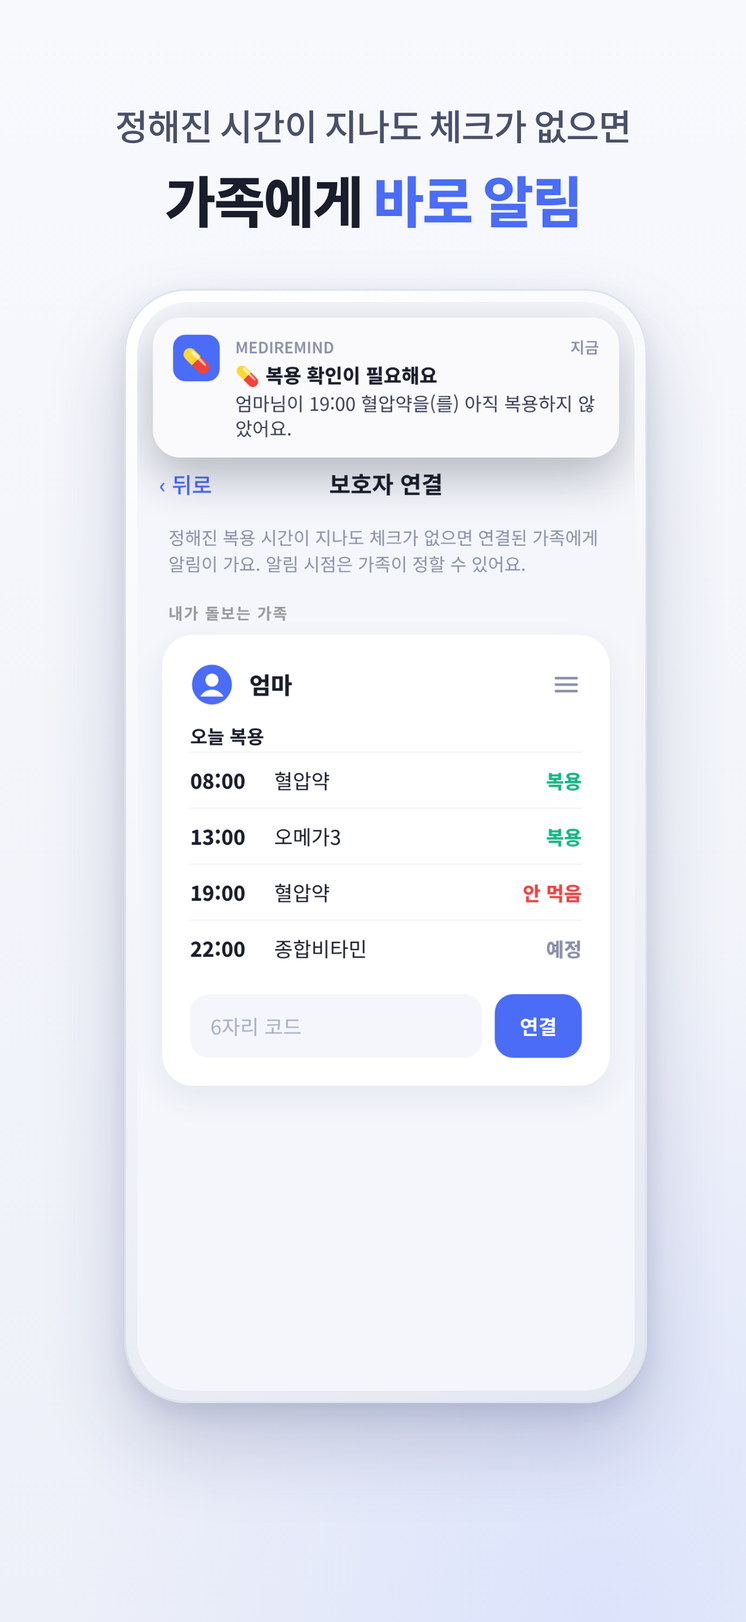
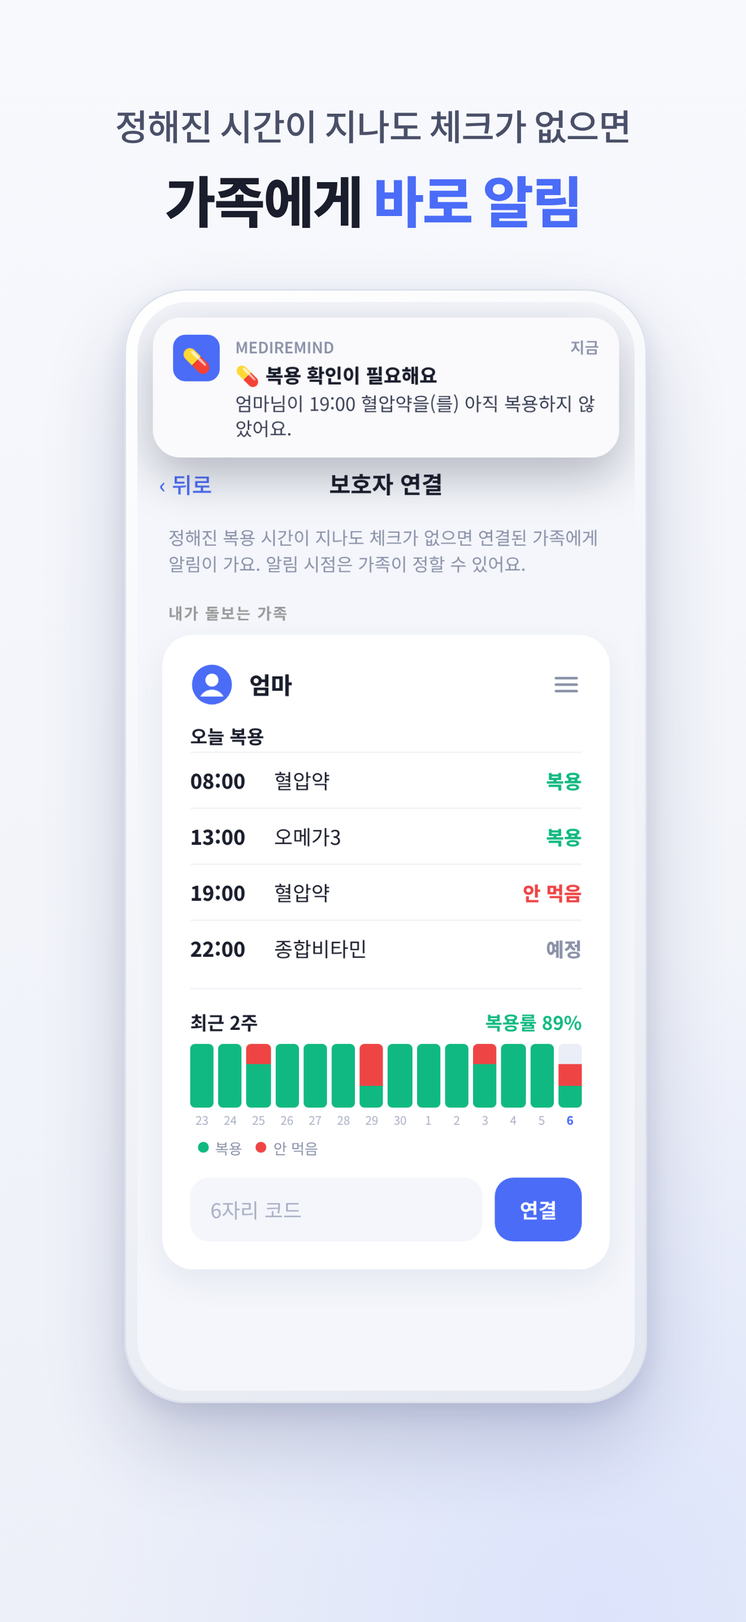
Family alerts: two-week adherence chart on each watched card
Guardians now see the last 14 days (what the server keeps) as one bar per
day, green for taken and red for missed past their chosen delay, with an
overall rate. Tally logic is pure and tested. Mockups, the Korean store
screenshot and strings in all languages updated. Publishes an OTA update.

Claude-Session: https://claude.ai/code/session_01FsfgzBCkXCq3RhxTQFRGQP

Changed region(s): [[0.2485, 0.5896, 0.8076, 0.7137], [0.6523, 0.7137, 0.7765, 0.7758]]

diff --git a/MediRemind/docs/guardian-flow.html b/MediRemind/docs/guardian-flow.html
@@ -294,6 +294,17 @@ h2{color:#fff;text-align:center;font-size:17px;margin:10px 0 18px}
 .swipe-demo{display:flex;gap:8px;margin-top:12px;overflow:hidden} .swipe-demo .row{flex:1;margin:0}
 .swipe-demo .act{width:92px;background:#EF4444;color:#fff;border-radius:12px;display:flex;align-items:center;justify-content:center;font-size:11.5px;font-weight:700;padding:10px 0}
 .gd-swipe{font-size:10px;color:#A9B0C5;text-align:right;margin-top:8px}
+  .hist { margin-top:8px; padding-top:10px; border-top:1px solid #F1F3F8; }
+  .hist-h { display:flex; justify-content:space-between; align-items:baseline; }
+  .hist-h b { font-size:12px; color:#10B981; }
+  .hbars { display:flex; gap:3px; height:54px; align-items:flex-end; margin-top:4px; }
+  .hb { flex:1; height:100%; display:flex; flex-direction:column; align-items:center; }
+  .ht { flex:1; width:100%; display:flex; flex-direction:column; border-radius:3px; overflow:hidden; }
+  .ht i { display:block; width:100%; }
+  .hb span { font-size:7.5px; color:#A9B0C5; margin-top:2px; }
+  .hb span.td { color:#4A6CF7; font-weight:800; }
+  .hleg { display:flex; align-items:center; gap:4px; font-size:9.5px; color:#8A91A8; margin-top:6px; }
+  .hleg i { width:7px; height:7px; border-radius:4px; display:inline-block; margin-left:5px; }
 </style></head><body>
 <h1>보호자 연결 — 등록 과정</h1><div class="sub">부모님 폰에서 코드 만들기 → 가족 폰에서 코드 입력 → 연결 완료</div>
 <div class="flow"><figure class="step"><div class="phone"><div class="screen">
@@ -317,7 +328,7 @@ h2{color:#fff;text-align:center;font-size:17px;margin:10px 0 18px}
 <div class="flow"><figure class="step"><div class="phone"><div class="screen">
 <div class="notch"></div><div class="status"><span>9:41</span><span>📶 🔋</span></div>
 <div class="navbar"><span class="back">‹ 뒤로</span><span class="nt">보호자 연결</span><span></span></div>
-<div class="body"><div class="set-lbl">내가 돌보는 가족</div><div class="card"><div class="gd-person"><svg class="gd-pc " viewBox="0 0 24 24"><circle cx="12" cy="12" r="11"/><circle cx="12" cy="9.5" r="3.6" fill="#fff"/><path d="M5.6 18.6c1.3-2.4 3.7-3.8 6.4-3.8s5.1 1.4 6.4 3.8" fill="#fff"/></svg><div class="gd-name">엄마</div><svg class="gd-menu" viewBox="0 0 24 24"><path d="M4 7h16M4 12h16M4 17h16"/></svg></div><div class="gd-lbl">오늘 복용</div><div class="gd-row"><span class="gd-time">08:00</span><span class="gd-med">혈압약</span><span class="gd-st ok">복용</span></div><div class="gd-row"><span class="gd-time">19:00</span><span class="gd-med">혈압약</span><span class="gd-st miss">안 먹음</span></div></div><div class="card"><div class="gd-person"><svg class="gd-pc dad" viewBox="0 0 24 24"><circle cx="12" cy="12" r="11"/><circle cx="12" cy="9.5" r="3.6" fill="#fff"/><path d="M5.6 18.6c1.3-2.4 3.7-3.8 6.4-3.8s5.1 1.4 6.4 3.8" fill="#fff"/></svg><div class="gd-name">아빠</div><svg class="gd-menu" viewBox="0 0 24 24"><path d="M4 7h16M4 12h16M4 17h16"/></svg></div><div class="gd-lbl">오늘 복용</div><div class="gd-row"><span class="gd-time">09:00</span><span class="gd-med">당뇨약</span><span class="gd-st ok">복용</span></div><div class="gd-row"><span class="gd-time">21:00</span><span class="gd-med">당뇨약</span><span class="gd-st next">예정</span></div></div></div>
+<div class="body"><div class="set-lbl">내가 돌보는 가족</div><div class="card"><div class="gd-person"><svg class="gd-pc " viewBox="0 0 24 24"><circle cx="12" cy="12" r="11"/><circle cx="12" cy="9.5" r="3.6" fill="#fff"/><path d="M5.6 18.6c1.3-2.4 3.7-3.8 6.4-3.8s5.1 1.4 6.4 3.8" fill="#fff"/></svg><div class="gd-name">엄마</div><svg class="gd-menu" viewBox="0 0 24 24"><path d="M4 7h16M4 12h16M4 17h16"/></svg></div><div class="gd-lbl">오늘 복용</div><div class="gd-row"><span class="gd-time">08:00</span><span class="gd-med">혈압약</span><span class="gd-st ok">복용</span></div><div class="gd-row"><span class="gd-time">19:00</span><span class="gd-med">혈압약</span><span class="gd-st miss">안 먹음</span></div><div class="hist"><div class="hist-h"><span class="gd-lbl">최근 2주</span><b>복용률 89%</b></div><div class="hbars"><div class="hb"><div class="ht"><i style="flex:0;background:#EBEEF6"></i><i style="flex:0;background:#EF4444"></i><i style="flex:3;background:#10B981"></i></div><span class="">23</span></div><div class="hb"><div class="ht"><i style="flex:0;background:#EBEEF6"></i><i style="flex:0;background:#EF4444"></i><i style="flex:3;background:#10B981"></i></div><span class="">24</span></div><div class="hb"><div class="ht"><i style="flex:0;background:#EBEEF6"></i><i style="flex:1;background:#EF4444"></i><i style="flex:2;background:#10B981"></i></div><span class="">25</span></div><div class="hb"><div class="ht"><i style="flex:0;background:#EBEEF6"></i><i style="flex:0;background:#EF4444"></i><i style="flex:3;background:#10B981"></i></div><span class="">26</span></div><div class="hb"><div class="ht"><i style="flex:0;background:#EBEEF6"></i><i style="flex:0;background:#EF4444"></i><i style="flex:3;background:#10B981"></i></div><span class="">27</span></div><div class="hb"><div class="ht"><i style="flex:0;background:#EBEEF6"></i><i style="flex:0;background:#EF4444"></i><i style="flex:3;background:#10B981"></i></div><span class="">28</span></div><div class="hb"><div class="ht"><i style="flex:0;background:#EBEEF6"></i><i style="flex:2;background:#EF4444"></i><i style="flex:1;background:#10B981"></i></div><span class="">29</span></div><div class="hb"><div class="ht"><i style="flex:0;background:#EBEEF6"></i><i style="flex:0;background:#EF4444"></i><i style="flex:3;background:#10B981"></i></div><span class="">30</span></div><div class="hb"><div class="ht"><i style="flex:0;background:#EBEEF6"></i><i style="flex:0;background:#EF4444"></i><i style="flex:3;background:#10B981"></i></div><span class="">1</span></div><div class="hb"><div class="ht"><i style="flex:0;background:#EBEEF6"></i><i style="flex:0;background:#EF4444"></i><i style="flex:3;background:#10B981"></i></div><span class="">2</span></div><div class="hb"><div class="ht"><i style="flex:0;background:#EBEEF6"></i><i style="flex:1;background:#EF4444"></i><i style="flex:2;background:#10B981"></i></div><span class="">3</span></div><div class="hb"><div class="ht"><i style="flex:0;background:#EBEEF6"></i><i style="flex:0;background:#EF4444"></i><i style="flex:3;background:#10B981"></i></div><span class="">4</span></div><div class="hb"><div class="ht"><i style="flex:0;background:#EBEEF6"></i><i style="flex:0;background:#EF4444"></i><i style="flex:3;background:#10B981"></i></div><span class="">5</span></div><div class="hb"><div class="ht"><i style="flex:1;background:#EBEEF6"></i><i style="flex:1;background:#EF4444"></i><i style="flex:1;background:#10B981"></i></div><span class="td">6</span></div></div><div class="hleg"><i style="background:#10B981"></i>복용<i style="background:#EF4444"></i>안 먹음</div></div></div><div class="card"><div class="gd-person"><svg class="gd-pc dad" viewBox="0 0 24 24"><circle cx="12" cy="12" r="11"/><circle cx="12" cy="9.5" r="3.6" fill="#fff"/><path d="M5.6 18.6c1.3-2.4 3.7-3.8 6.4-3.8s5.1 1.4 6.4 3.8" fill="#fff"/></svg><div class="gd-name">아빠</div><svg class="gd-menu" viewBox="0 0 24 24"><path d="M4 7h16M4 12h16M4 17h16"/></svg></div><div class="gd-lbl">오늘 복용</div><div class="gd-row"><span class="gd-time">09:00</span><span class="gd-med">당뇨약</span><span class="gd-st ok">복용</span></div><div class="gd-row"><span class="gd-time">21:00</span><span class="gd-med">당뇨약</span><span class="gd-st next">예정</span></div></div></div>
 </div></div><figcaption>카드 앞면 — ☰를 누르면</figcaption></figure><figure class="step"><div class="phone"><div class="screen">
 <div class="notch"></div><div class="status"><span>9:41</span><span>📶 🔋</span></div>
 <div class="navbar"><span class="back">‹ 뒤로</span><span class="nt">보호자 연결</span><span></span></div>

diff --git a/MediRemind/src/screens/GuardianScreen.tsx b/MediRemind/src/screens/GuardianScreen.tsx
@@ -29,7 +29,7 @@ import {
   deleteAllData,
   getDisplayName,
   getLinks,
-  patientToday,
+  patientHistory,
   redeemInvite,
   setAlertDelay,
   setDisplayName,
@@ -38,7 +38,14 @@ import {
   type Patient,
   type Person,
 } from '../guardian/guardian';
-import { ALERT_DELAYS, slotState, type DoseSlot, type SlotState } from '../guardian/slots';
+import {
+  adherenceRate,
+  ALERT_DELAYS,
+  dailyTally,
+  slotState,
+  type DoseSlot,
+  type SlotState,
+} from '../guardian/slots';
 import { formatShortDate } from '../i18n/core';
 import { dateKey } from '../lib/schedule';
 
@@ -70,7 +77,7 @@ export default function GuardianScreen() {
       if (!l) return;
       setName(await getDisplayName());
       const entries = await Promise.all(
-        l.patients.map(async (p) => [p.id, await patientToday(p.id)] as const)
+        l.patients.map(async (p) => [p.id, await patientHistory(p.id)] as const)
       );
       setToday(Object.fromEntries(entries));
     } catch (e) {
@@ -332,6 +339,8 @@ function PatientCard({
   const front = flip.interpolate({ inputRange: [0, 1], outputRange: ['0deg', '180deg'] });
   const back = flip.interpolate({ inputRange: [0, 1], outputRange: ['180deg', '360deg'] });
   const name = patient.name || t('guardian.unnamed');
+  const todayKey = dateKey(new Date());
+  const todaySlots = slots.filter((s) => dateKey(new Date(s.due_at)) === todayKey);
   const faceHeight = height ? { minHeight: height } : null;
 
   return (
@@ -351,7 +360,8 @@ function PatientCard({
             <Ionicons name="menu" size={24} color={colors.textMuted} />
           </TouchableOpacity>
         </View>
-        <TodayList slots={slots} delay={patient.alertDelay} />
+        <TodayList slots={todaySlots} delay={patient.alertDelay} />
+        <HistoryChart slots={slots} delay={patient.alertDelay} />
       </Animated.View>
 
       <Animated.View
@@ -404,6 +414,54 @@ function DelayPicker({ value, onChange }: { value: number; onChange: (m: number)
             </Text>
           </TouchableOpacity>
         ))}
+      </View>
+    </View>
+  );
+}
+
+/** Last two weeks: one bar per day, green for taken, red for missed. */
+function HistoryChart({ slots, delay }: { slots: DoseSlot[]; delay: number }) {
+  const { t } = useI18n();
+  const { colors } = useTheme();
+  const styles = useThemedStyles(makeStyles);
+  const now = new Date();
+  const tally = dailyTally(slots, dateKey(now), now, delay);
+  const rate = adherenceRate(tally);
+  const max = Math.max(1, ...tally.map((d) => d.total));
+  return (
+    <View style={styles.history}>
+      <View style={styles.historyHead}>
+        <Text style={styles.label}>{t('guardian.history')}</Text>
+        {rate !== null && (
+          <Text style={[styles.historyRate, { color: rate >= 80 ? colors.success : rate >= 50 ? colors.warning : colors.danger }]}>
+            {t('guardian.historyRate', { n: rate })}
+          </Text>
+        )}
+      </View>
+      <View style={styles.bars}>
+        {tally.map((d) => {
+          const isToday = d === tally[tally.length - 1];
+          return (
+            <View key={d.date} style={styles.barCol} accessibilityLabel={`${d.date} ${d.taken}/${d.total}`}>
+              <View style={styles.barTrack}>
+                {d.total > 0 && (
+                  <View style={{ height: `${(d.total / max) * 100}%`, width: '100%', justifyContent: 'flex-end' }}>
+                    <View style={[styles.barPart, { flex: d.total - d.taken - d.missed, backgroundColor: colors.surfaceMuted }]} />
+                    <View style={[styles.barPart, { flex: d.missed, backgroundColor: colors.danger }]} />
+                    <View style={[styles.barPart, { flex: d.taken, backgroundColor: colors.success }]} />
+                  </View>
+                )}
+              </View>
+              <Text style={[styles.barDay, isToday && styles.barToday]}>{Number(d.date.slice(8))}</Text>
+            </View>
+          );
+        })}
+      </View>
+      <View style={styles.legend}>
+        <View style={[styles.legendDot, { backgroundColor: colors.success }]} />
+        <Text style={styles.legendText}>{t('guardian.state.taken')}</Text>
+        <View style={[styles.legendDot, { backgroundColor: colors.danger }]} />
+        <Text style={styles.legendText}>{t('guardian.state.missed')}</Text>
       </View>
     </View>
   );
@@ -511,6 +569,18 @@ const makeStyles = (c: ThemeColors, scheme: Scheme) =>
     personRow: { flexDirection: 'row', alignItems: 'center', gap: 10 },
     personName: { flex: 1, fontSize: 16, fontWeight: '700', color: c.text },
     flipWrap: { marginBottom: 16 },
+    history: { marginTop: 4, paddingTop: 12, borderTopWidth: 1, borderTopColor: c.line },
+    historyHead: { flexDirection: 'row', justifyContent: 'space-between', alignItems: 'baseline' },
+    historyRate: { fontSize: 13, fontWeight: '800' },
+    bars: { flexDirection: 'row', gap: 3, height: 72, alignItems: 'flex-end', marginTop: 4 },
+    barCol: { flex: 1, alignItems: 'center', height: '100%' },
+    barTrack: { flex: 1, width: '100%', justifyContent: 'flex-end', borderRadius: 3, overflow: 'hidden' },
+    barPart: { width: '100%' },
+    barDay: { fontSize: 9, color: c.textFaint, marginTop: 3 },
+    barToday: { color: c.brand, fontWeight: '800' },
+    legend: { flexDirection: 'row', alignItems: 'center', gap: 4, marginTop: 8 },
+    legendDot: { width: 8, height: 8, borderRadius: 4, marginLeft: 6 },
+    legendText: { fontSize: 11, color: c.textMuted },
     face: { position: 'absolute', top: 0, left: 0, right: 0, marginBottom: 0, backfaceVisibility: 'hidden' },
     linkedSince: { fontSize: 12, color: c.textMuted, marginTop: 2 },
     unlinkBtn: {

diff --git a/MediRemind/mockup.html b/MediRemind/mockup.html
@@ -276,6 +276,17 @@
   .pw-later { text-align:center; font-size:12px; color:#8A91A8; font-weight:600; margin-top:9px; }
   .gd-menu { width:20px; height:20px; fill:none; stroke:#8A91A8; stroke-width:2; stroke-linecap:round; }
   .gd-swipe { font-size:10px; color:#A9B0C5; text-align:right; margin-top:6px; }
+  .hist { margin-top:8px; padding-top:10px; border-top:1px solid #F1F3F8; }
+  .hist-h { display:flex; justify-content:space-between; align-items:baseline; }
+  .hist-h b { font-size:12px; color:#10B981; }
+  .hbars { display:flex; gap:3px; height:54px; align-items:flex-end; margin-top:4px; }
+  .hb { flex:1; height:100%; display:flex; flex-direction:column; align-items:center; }
+  .ht { flex:1; width:100%; display:flex; flex-direction:column; border-radius:3px; overflow:hidden; }
+  .ht i { display:block; width:100%; }
+  .hb span { font-size:7.5px; color:#A9B0C5; margin-top:2px; }
+  .hb span.td { color:#4A6CF7; font-weight:800; }
+  .hleg { display:flex; align-items:center; gap:4px; font-size:9.5px; color:#8A91A8; margin-top:6px; }
+  .hleg i { width:7px; height:7px; border-radius:4px; display:inline-block; margin-left:5px; }
 </style>
 </head>
 <body>
@@ -642,6 +653,7 @@
         <div class="gd-row"><span class="gd-time">13:00</span><span class="gd-med">오메가3</span><span class="gd-st ok">복용</span></div>
         <div class="gd-row"><span class="gd-time">19:00</span><span class="gd-med">혈압약</span><span class="gd-st miss">안 먹음</span></div>
         <div class="gd-row"><span class="gd-time">22:00</span><span class="gd-med">종합비타민</span><span class="gd-st next">예정</span></div>
+        <div class="hist"><div class="hist-h"><span class="gd-lbl">최근 2주</span><b>복용률 89%</b></div><div class="hbars"><div class="hb"><div class="ht"><i style="flex:0;background:#EBEEF6"></i><i style="flex:0;background:#EF4444"></i><i style="flex:3;background:#10B981"></i></div><span class="">23</span></div><div class="hb"><div class="ht"><i style="flex:0;background:#EBEEF6"></i><i style="flex:0;background:#EF4444"></i><i style="flex:3;background:#10B981"></i></div><span class="">24</span></div><div class="hb"><div class="ht"><i style="flex:0;background:#EBEEF6"></i><i style="flex:1;background:#EF4444"></i><i style="flex:2;background:#10B981"></i></div><span class="">25</span></div><div class="hb"><div class="ht"><i style="flex:0;background:#EBEEF6"></i><i style="flex:0;background:#EF4444"></i><i style="flex:3;background:#10B981"></i></div><span class="">26</span></div><div class="hb"><div class="ht"><i style="flex:0;background:#EBEEF6"></i><i style="flex:0;background:#EF4444"></i><i style="flex:3;background:#10B981"></i></div><span class="">27</span></div><div class="hb"><div class="ht"><i style="flex:0;background:#EBEEF6"></i><i style="flex:0;background:#EF4444"></i><i style="flex:3;background:#10B981"></i></div><span class="">28</span></div><div class="hb"><div class="ht"><i style="flex:0;background:#EBEEF6"></i><i style="flex:2;background:#EF4444"></i><i style="flex:1;background:#10B981"></i></div><span class="">29</span></div><div class="hb"><div class="ht"><i style="flex:0;background:#EBEEF6"></i><i style="flex:0;background:#EF4444"></i><i style="flex:3;background:#10B981"></i></div><span class="">30</span></div><div class="hb"><div class="ht"><i style="flex:0;background:#EBEEF6"></i><i style="flex:0;background:#EF4444"></i><i style="flex:3;background:#10B981"></i></div><span class="">1</span></div><div class="hb"><div class="ht"><i style="flex:0;background:#EBEEF6"></i><i style="flex:0;background:#EF4444"></i><i style="flex:3;background:#10B981"></i></div><span class="">2</span></div><div class="hb"><div class="ht"><i style="flex:0;background:#EBEEF6"></i><i style="flex:1;background:#EF4444"></i><i style="flex:2;background:#10B981"></i></div><span class="">3</span></div><div class="hb"><div class="ht"><i style="flex:0;background:#EBEEF6"></i><i style="flex:0;background:#EF4444"></i><i style="flex:3;background:#10B981"></i></div><span class="">4</span></div><div class="hb"><div class="ht"><i style="flex:0;background:#EBEEF6"></i><i style="flex:0;background:#EF4444"></i><i style="flex:3;background:#10B981"></i></div><span class="">5</span></div><div class="hb"><div class="ht"><i style="flex:1;background:#EBEEF6"></i><i style="flex:1;background:#EF4444"></i><i style="flex:1;background:#10B981"></i></div><span class="td">6</span></div></div><div class="hleg"><i style="background:#10B981"></i>복용<i style="background:#EF4444"></i>안 먹음</div></div>
         <div class="gd-input"><span class="gd-field">6자리 코드</span><span class="gd-btn">연결</span></div>
       </div>
     </div>

diff --git a/MediRemind/src/guardian/slots.ts b/MediRemind/src/guardian/slots.ts
@@ -4,7 +4,7 @@
  * server can tell when one is overdue without knowing the schedule rules.
  */
 import type { DoseRecord, Medicine } from '../types';
-import { addDays, dateRange, expectedDoseRecords, parseDateKey } from '../lib/schedule';
+import { addDays, dateKey, dateRange, expectedDoseRecords, parseDateKey } from '../lib/schedule';
 import { parseTime } from '../lib/time';
 
 /** Uploaded ahead so alerts still work if the app isn't opened for a while. */
@@ -67,4 +67,45 @@ export function slotState(
   const overdueMin = (now.getTime() - new Date(slot.due_at).getTime()) / 60000;
   if (overdueMin < 0) return 'upcoming';
   return overdueMin < delayMin ? 'late' : 'missed';
+}
+
+/** Days of history a guardian sees (the server keeps 14). */
+export const HISTORY_DAYS = 14;
+
+export interface DayTally {
+  date: string;
+  total: number;
+  taken: number;
+  /** Untaken doses past the guardian's delay. */
+  missed: number;
+}
+
+/** Per-day counts for the `days` days ending today, oldest first. */
+export function dailyTally(
+  slots: Pick<DoseSlot, 'due_at' | 'taken_at'>[],
+  today: string,
+  now: Date,
+  delayMin: number = DEFAULT_ALERT_DELAY,
+  days = HISTORY_DAYS
+): DayTally[] {
+  const out = new Map<string, DayTally>();
+  for (const date of dateRange(addDays(today, -(days - 1)), today)) {
+    out.set(date, { date, total: 0, taken: 0, missed: 0 });
+  }
+  for (const slot of slots) {
+    const day = out.get(dateKey(new Date(slot.due_at)));
+    if (!day) continue;
+    day.total += 1;
+    const state = slotState(slot, now, delayMin);
+    if (state === 'taken') day.taken += 1;
+    else if (state === 'missed') day.missed += 1;
+  }
+  return [...out.values()];
+}
+
+/** Share of due doses taken over the tallied days (upcoming doses excluded), or null. */
+export function adherenceRate(tally: DayTally[]): number | null {
+  const due = tally.reduce((n, d) => n + d.taken + d.missed, 0);
+  if (!due) return null;
+  return Math.round((tally.reduce((n, d) => n + d.taken, 0) / due) * 100);
 }

diff --git a/MediRemind/src/guardian/slots.test.ts b/MediRemind/src/guardian/slots.test.ts
@@ -1,5 +1,5 @@
 import { describe, expect, it } from '@jest/globals';
-import { buildSlots, dueAt, slotState } from './slots';
+import { adherenceRate, buildSlots, dailyTally, dueAt, slotState } from './slots';
 import { dose, medicine } from '../test/factories';
 
 describe('buildSlots', () => {
@@ -51,5 +51,39 @@ describe('slotState', () => {
 
   it('is taken once taken_at is set', () => {
     expect(slotState({ ...slot, taken_at: due.toISOString() }, at(90))).toBe('taken');
+  });
+});
+
+describe('dailyTally', () => {
+  const now = dueAt('2026-11-04', '12:00');
+  const slot = (date: string, time: string, taken: boolean) => ({
+    due_at: dueAt(date, time).toISOString(),
+    taken_at: taken ? dueAt(date, time).toISOString() : null,
+  });
+
+  it('counts taken and missed per day, oldest first', () => {
+    const tally = dailyTally(
+      [
+        slot('2026-11-03', '08:00', true),
+        slot('2026-11-03', '20:00', false),
+        slot('2026-11-04', '08:00', true),
+        slot('2026-11-04', '20:00', false), // still upcoming
+        slot('2026-10-01', '08:00', true), // outside the window
+      ],
+      '2026-11-04',
+      now,
+      30,
+      3
+    );
+    expect(tally).toEqual([
+      { date: '2026-11-02', total: 0, taken: 0, missed: 0 },
+      { date: '2026-11-03', total: 2, taken: 1, missed: 1 },
+      { date: '2026-11-04', total: 2, taken: 1, missed: 0 },
+    ]);
+    expect(adherenceRate(tally)).toBe(67);
+  });
+
+  it('has no rate before anything is due', () => {
+    expect(adherenceRate(dailyTally([], '2026-11-04', now))).toBeNull();
   });
 });

diff --git a/MediRemind/src/guardian/guardian.ts b/MediRemind/src/guardian/guardian.ts
@@ -16,10 +16,10 @@ import type { Medicine } from '../types';
 import { kvDelete, kvGet, kvSet } from '../db/kv';
 import { getDoseRecordsByDate } from '../db/doseRepository';
 import { getActiveLanguage } from '../i18n/core';
-import { dateKey, parseDateKey } from '../lib/schedule';
+import { addDays, dateKey, parseDateKey } from '../lib/schedule';
 import { ensurePermission } from '../notifications/notifications';
 import { GUARDIAN_CONFIG, guardianAvailable } from './config';
-import { buildSlots, DEFAULT_ALERT_DELAY, type DoseSlot } from './slots';
+import { buildSlots, DEFAULT_ALERT_DELAY, HISTORY_DAYS, type DoseSlot } from './slots';
 
 const KEYS = {
   /** Set once an account exists, so the client isn't even created before. */
@@ -193,11 +193,11 @@ export async function redeemInvite(code: string): Promise<RedeemResult> {
   return push ? 'linked' : 'linked_no_push';
 }
 
-/** Today's doses of a linked patient, in their order. */
-export async function patientToday(patientId: string): Promise<DoseSlot[]> {
-  const start = parseDateKey(dateKey(new Date()));
-  const end = new Date(start);
-  end.setDate(end.getDate() + 1);
+/** A linked patient's doses from `days - 1` days ago through today, in order. */
+export async function patientHistory(patientId: string, days = HISTORY_DAYS): Promise<DoseSlot[]> {
+  const today = dateKey(new Date());
+  const start = parseDateKey(addDays(today, -(days - 1)));
+  const end = parseDateKey(addDays(today, 1));
   const { data, error } = await getClient()
     .from('dose_slots')
     .select('id, medicine_name, due_at, taken_at')

diff --git a/MediRemind/src/i18n/strings.ts b/MediRemind/src/i18n/strings.ts
@@ -266,6 +266,8 @@ export const STRINGS: Record<string, Entry> = {
   'guardian.linkedSince': { ko: '{date}부터 연결됨', en: 'Linked since {date}' },
   'guardian.unlinkNamed': { ko: '{name} 님과 연결 끊기', en: 'Unlink {name}' },
   'guardian.swipeHint': { ko: '← 밀어서 연결 끊기', en: '← Swipe to unlink' },
+  'guardian.history': { ko: '최근 2주', en: 'Last 2 weeks' },
+  'guardian.historyRate': { ko: '복용률 {n}%', en: '{n}% taken' },
   'guardian.unlinkConfirm': { ko: '{name} 님과의 연결을 끊을까요?', en: 'Unlink {name}?' },
   'guardian.deleteAll': { ko: '연결 해제 및 서버 데이터 삭제', en: 'Unlink all & delete server data' },
   'guardian.deleteConfirm': {

diff --git a/MediRemind/src/i18n/locales/ja.ts b/MediRemind/src/i18n/locales/ja.ts
@@ -180,6 +180,8 @@ const ja: Record<string, string> = {
   'guardian.linkedSince': '{date}からつながっています',
   'guardian.unlinkNamed': '{name}さんとのつながりを解除',
   'guardian.swipeHint': '← スワイプで解除',
+  'guardian.history': '直近2週間',
+  'guardian.historyRate': '服薬率 {n}%',
   'guardian.unlinkConfirm': '{name}さんとのつながりを解除しますか？',
   'guardian.deleteAll': 'すべて解除してサーバーのデータを削除',
   'guardian.deleteConfirm': 'すべての家族とのつながりと、サーバーで共有した服薬記録が削除されます。このスマホのお薬と記録はそのまま残ります。',

diff --git a/MediRemind/src/i18n/locales/fr.ts b/MediRemind/src/i18n/locales/fr.ts
@@ -180,6 +180,8 @@ const fr: Record<string, string> = {
   'guardian.linkedSince': 'Lié depuis le {date}',
   'guardian.unlinkNamed': 'Délier {name}',
   'guardian.swipeHint': '← Glissez pour délier',
+  'guardian.history': '2 dernières semaines',
+  'guardian.historyRate': '{n} % prises',
   'guardian.unlinkConfirm': 'Supprimer le lien avec {name} ?',
   'guardian.deleteAll': 'Tout délier et supprimer les données du serveur',
   'guardian.deleteConfirm': "Tous les liens familiaux et les prises partagées sur le serveur seront supprimés. Les médicaments et l'historique de ce téléphone sont conservés.",

diff --git a/MediRemind/src/i18n/locales/es.ts b/MediRemind/src/i18n/locales/es.ts
@@ -180,6 +180,8 @@ const es: Record<string, string> = {
   'guardian.linkedSince': 'Vinculado desde el {date}',
   'guardian.unlinkNamed': 'Desvincular a {name}',
   'guardian.swipeHint': '← Desliza para desvincular',
+  'guardian.history': 'Últimas 2 semanas',
+  'guardian.historyRate': '{n} % tomadas',
   'guardian.unlinkConfirm': '¿Desvincular a {name}?',
   'guardian.deleteAll': 'Desvincular todo y borrar datos del servidor',
   'guardian.deleteConfirm': 'Se borrarán todos los vínculos familiares y las dosis compartidas en el servidor. Los medicamentos y el historial de este teléfono se conservan.',

diff --git a/MediRemind/src/i18n/locales/de.ts b/MediRemind/src/i18n/locales/de.ts
@@ -180,6 +180,8 @@ const de: Record<string, string> = {
   'guardian.linkedSince': 'Verbunden seit {date}',
   'guardian.unlinkNamed': 'Verbindung mit {name} trennen',
   'guardian.swipeHint': '← Wischen zum Trennen',
+  'guardian.history': 'Letzte 2 Wochen',
+  'guardian.historyRate': '{n} % genommen',
   'guardian.unlinkConfirm': 'Verbindung mit {name} trennen?',
   'guardian.deleteAll': 'Alle trennen & Serverdaten löschen',
   'guardian.deleteConfirm': 'Alle Familienverbindungen und die auf dem Server geteilten Einnahmen werden gelöscht. Medikamente und Verlauf auf diesem Handy bleiben erhalten.',

diff --git a/MediRemind/src/i18n/locales/zh-Hant.ts b/MediRemind/src/i18n/locales/zh-Hant.ts
@@ -180,6 +180,8 @@ const zhHant: Record<string, string> = {
   'guardian.linkedSince': '{date}起已連結',
   'guardian.unlinkNamed': '解除與{name}的連結',
   'guardian.swipeHint': '← 滑動以解除連結',
+  'guardian.history': '最近兩週',
+  'guardian.historyRate': '服藥率 {n}%',
   'guardian.unlinkConfirm': '要解除與 {name} 的連結嗎？',
   'guardian.deleteAll': '解除所有連結並刪除伺服器資料',
   'guardian.deleteConfirm': '所有家人連結及分享到伺服器的服藥紀錄都會被刪除。這支手機上的藥品和紀錄會保留。',
